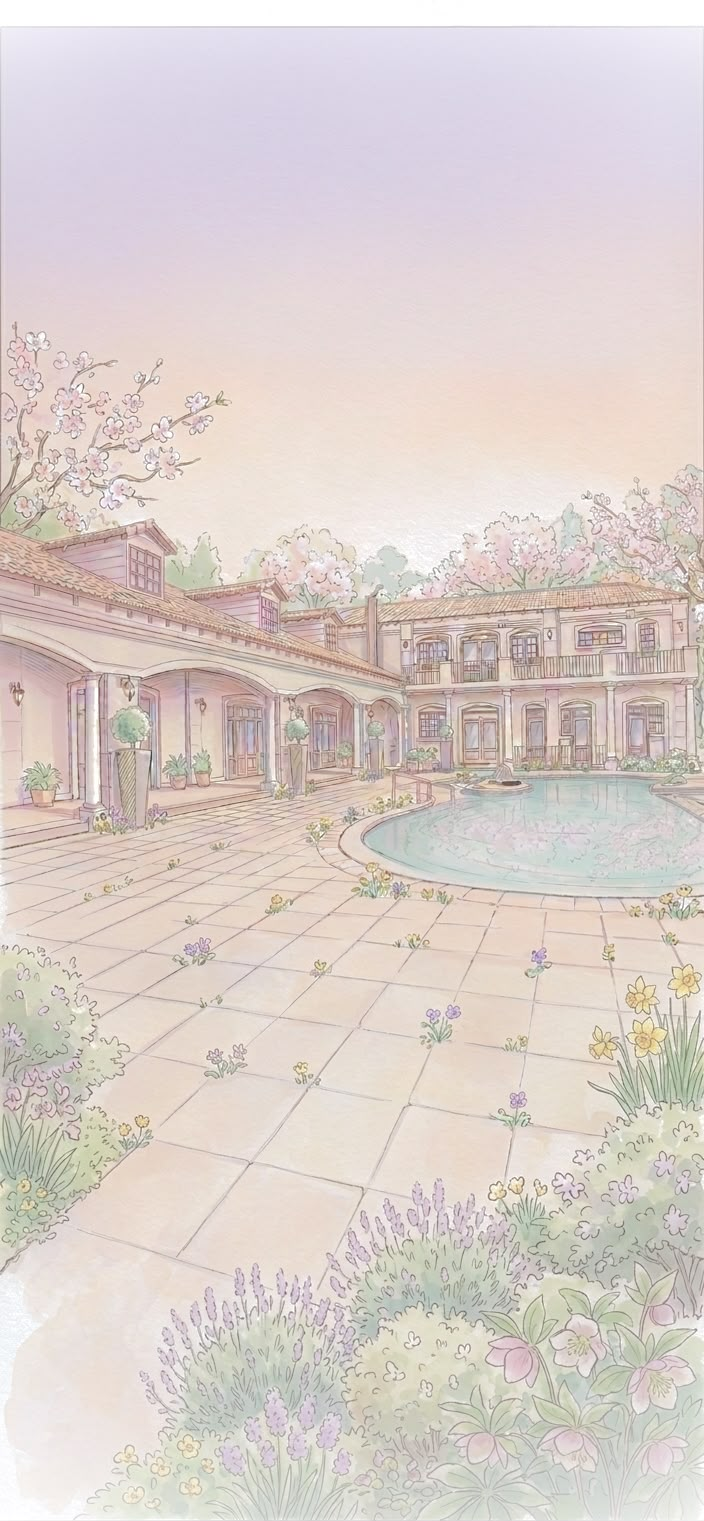
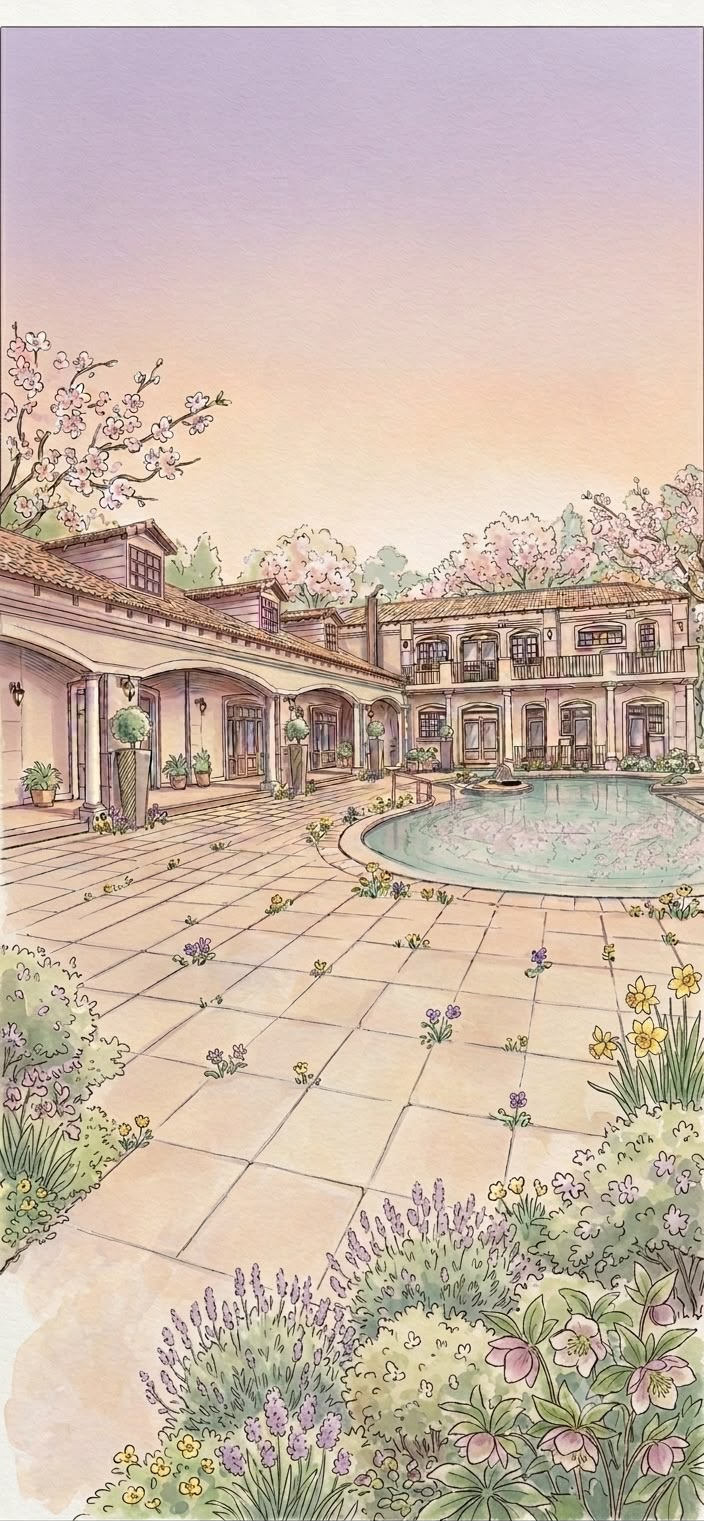
Design: Lessen background fade to 35% opacity and deepen text colors for maximum contrast and popping colors on invitation card

diff --git a/src/components/invitation-card.tsx b/src/components/invitation-card.tsx
@@ -88,7 +88,7 @@ export function InvitationCard({
       id={printId ? 'invitation-print-card' : undefined}
       className={`relative mx-auto aspect-[5/7] ${widthClass} [container-type:inline-size] overflow-hidden rounded-[2.5cqw] shadow-[0_30px_90px_rgba(0,0,0,0.25)]`}
       style={{
-        backgroundImage: 'linear-gradient(to bottom, rgba(253, 251, 245, 0.78), rgba(253, 251, 245, 0.78)), url("/villa-courtyard.jpg")',
+        backgroundImage: 'linear-gradient(to bottom, rgba(253, 251, 245, 0.35), rgba(253, 251, 245, 0.35)), url("/villa-courtyard.jpg")',
         backgroundSize: 'cover',
         backgroundPosition: 'center',
       }}
@@ -99,7 +99,7 @@ export function InvitationCard({
         initial={{ x: '-130%' }}
         animate={{ x: '130%' }}
         transition={{ delay: 1.6, duration: 2.4, ease: 'easeInOut' }}
-        style={{ background: 'linear-gradient(105deg, transparent 42%, rgba(255,255,255,0.15) 50%, transparent 58%)' }}
+        style={{ background: 'linear-gradient(105deg, transparent 42%, rgba(255,255,255,0.18) 50%, transparent 58%)' }}
       />
 
       {/* Card content — vertically composed and centered with compact spacing */}
@@ -108,13 +108,13 @@ export function InvitationCard({
         {/* Arabic Calligraphy and Translation */}
         <motion.div variants={riseIn} className="flex flex-col items-center">
           <p
-            className="text-[6.8cqw] font-medium leading-none text-[#2b3a30] select-none"
+            className="text-[6.8cqw] font-bold leading-none text-[#122217] select-none"
             style={{ fontFamily: "'Amiri', serif" }}
           >
             بِسْمِ اللهِ الرَّحْمٰنِ الرَّحِيْمِ
           </p>
           <p
-            className="mt-[1cqw] text-[2.2cqw] font-semibold uppercase tracking-[0.14em] text-[#555555]"
+            className="mt-[1cqw] text-[2.2cqw] font-bold uppercase tracking-[0.14em] text-[#2e3b32]"
             style={{ fontFamily: "'Playfair Display', serif" }}
           >
             In The Name of Allah, The Most Gracious, The Most Merciful
@@ -122,16 +122,16 @@ export function InvitationCard({
         </motion.div>
 
         {/* Divider */}
-        <motion.div variants={drawLine} className="h-px bg-gradient-to-r from-transparent via-[#2b3a30]/20 to-transparent w-[80cqw]" />
+        <motion.div variants={drawLine} className="h-px bg-gradient-to-r from-transparent via-[#122217]/28 to-transparent w-[80cqw]" />
 
         {/* Families Invitation Header */}
         <motion.p
           variants={riseIn}
-          className="text-[2.3cqw] leading-[1.6] text-[#2b3a30] max-w-[80cqw] font-medium"
+          className="text-[2.3cqw] leading-[1.6] text-[#122217] max-w-[80cqw] font-bold"
           style={{ fontFamily: "'Playfair Display', serif" }}
         >
           The Shade and Parker Families Request The Honour Of Your Presence At <br />
-          <span className="font-bold">The Nikaah Ceremony and Reception</span> of:
+          <span className="font-extrabold text-[#113a1c]">The Nikaah Ceremony and Reception</span> of:
         </motion.p>
 
         {/* Groom & Bride Section */}
@@ -139,13 +139,13 @@ export function InvitationCard({
           {/* Groom: Abduraziq Parker */}
           <div className="flex flex-col items-center">
             <h1
-              className="text-[7.2cqw] leading-none text-[#4a604f] font-medium italic"
+              className="text-[7.2cqw] leading-none text-[#113a1c] font-bold italic"
               style={{ fontFamily: "'Great Vibes', cursive" }}
             >
               Abduraziq Parker
             </h1>
             <p
-              className="mt-[0.6cqw] text-[2.3cqw] text-[#555555]"
+              className="mt-[0.6cqw] text-[2.3cqw] font-semibold text-[#2e3b32]"
               style={{ fontFamily: "'Playfair Display', serif" }}
             >
               S/o: Abdussataar and Shanaaz Parker
@@ -154,7 +154,7 @@ export function InvitationCard({
 
           {/* Script Ampersand */}
           <span
-            className="my-[0.3cqw] text-[4.8cqw] text-[#4a604f]"
+            className="my-[0.3cqw] text-[4.8cqw] text-[#113a1c] font-bold"
             style={{ fontFamily: "'Great Vibes', cursive" }}
           >
             &amp;
@@ -163,13 +163,13 @@ export function InvitationCard({
           {/* Bride: Razia Shade */}
           <div className="flex flex-col items-center">
             <h1
-              className="text-[7.2cqw] leading-none text-[#4a604f] font-medium italic"
+              className="text-[7.2cqw] leading-none text-[#113a1c] font-bold italic"
               style={{ fontFamily: "'Great Vibes', cursive" }}
             >
               Razia Shade
             </h1>
             <p
-              className="mt-[0.6cqw] text-[2.3cqw] text-[#555555]"
+              className="mt-[0.6cqw] text-[2.3cqw] font-semibold text-[#2e3b32]"
               style={{ fontFamily: "'Playfair Display', serif" }}
             >
               D/o: Sabri and Samalika Shade
@@ -180,32 +180,32 @@ export function InvitationCard({
         {/* Dual Details Grid (Nikaah & Reception) */}
         <motion.div
           variants={riseIn}
-          className="w-full grid grid-cols-2 gap-[3.5cqw] border-t border-b border-[#2b3a30]/15 py-[1.8cqw]"
+          className="w-full grid grid-cols-2 gap-[3.5cqw] border-t border-b border-[#122217]/28 py-[1.8cqw]"
         >
           {/* Nikaah Column */}
-          <div className="flex flex-col items-center text-center space-y-[1cqw] border-r border-[#2b3a30]/15 pr-[1.5cqw]">
+          <div className="flex flex-col items-center text-center space-y-[1cqw] border-r border-[#122217]/28 pr-[1.5cqw]">
             <h3
-              className="text-[2.6cqw] font-bold tracking-[0.15em] text-[#2b3a30]"
+              className="text-[2.6cqw] font-extrabold tracking-[0.15em] text-[#122217]"
               style={{ fontFamily: "'Cinzel', serif" }}
             >
               NIKAAH
             </h3>
-            <div className="h-px bg-[#2b3a30]/15 w-[10cqw]" />
+            <div className="h-px bg-[#122217]/28 w-[10cqw]" />
             <p
-              className="text-[2.2cqw] text-[#333333]"
+              className="text-[2.2cqw] font-bold text-[#122217]"
               style={{ fontFamily: "'Playfair Display', serif" }}
             >
               6 September 2026
             </p>
             <p
-              className="text-[2.2cqw] font-semibold text-[#333333]"
+              className="text-[2.2cqw] font-extrabold text-[#122217]"
               style={{ fontFamily: "'Playfair Display', serif" }}
             >
               10h00
             </p>
-            <div className="h-px bg-[#2b3a30]/15 w-[10cqw]" />
+            <div className="h-px bg-[#122217]/28 w-[10cqw]" />
             <p
-              className="text-[2cqw] text-[#555555] italic leading-snug"
+              className="text-[2cqw] text-[#2e3b32] font-semibold italic leading-snug"
               style={{ fontFamily: "'Playfair Display', serif" }}
             >
               Masjidul Quds Mosque<br />
@@ -216,27 +216,27 @@ export function InvitationCard({
           {/* Reception Column */}
           <div className="flex flex-col items-center text-center space-y-[1cqw] pl-[1.5cqw]">
             <h3
-              className="text-[2.6cqw] font-bold tracking-[0.15em] text-[#2b3a30]"
+              className="text-[2.6cqw] font-extrabold tracking-[0.15em] text-[#122217]"
               style={{ fontFamily: "'Cinzel', serif" }}
             >
               RECEPTION
             </h3>
-            <div className="h-px bg-[#2b3a30]/15 w-[10cqw]" />
+            <div className="h-px bg-[#122217]/28 w-[10cqw]" />
             <p
-              className="text-[2.2cqw] text-[#333333]"
+              className="text-[2.2cqw] font-bold text-[#122217]"
               style={{ fontFamily: "'Playfair Display', serif" }}
             >
               6 September 2026
             </p>
             <p
-              className="text-[2.2cqw] font-semibold text-[#333333]"
+              className="text-[2.2cqw] font-extrabold text-[#122217]"
               style={{ fontFamily: "'Playfair Display', serif" }}
             >
               5:00 PM
             </p>
-            <div className="h-px bg-[#2b3a30]/15 w-[10cqw]" />
+            <div className="h-px bg-[#122217]/28 w-[10cqw]" />
             <p
-              className="text-[2cqw] text-[#555555] italic leading-snug"
+              className="text-[2cqw] text-[#2e3b32] font-semibold italic leading-snug"
               style={{ fontFamily: "'Playfair Display', serif" }}
             >
               Tuscany Hall, Rylands<br />
@@ -248,20 +248,20 @@ export function InvitationCard({
         {/* Islamic Date & Quranic Verse */}
         <motion.div variants={riseIn} className="flex flex-col items-center gap-[0.8cqw]">
           <p
-            className="text-[2.4cqw] font-bold tracking-[0.08em] text-[#2b3a30]"
+            className="text-[2.4cqw] font-extrabold tracking-[0.08em] text-[#122217]"
             style={{ fontFamily: "'Cinzel', serif" }}
           >
             24 RABĪ&apos; AL-AWWAL 1448
           </p>
           <div className="flex flex-col items-center">
             <p
-              className="text-[2.4cqw] italic text-[#4a604f] font-medium"
+              className="text-[2.4cqw] italic text-[#113a1c] font-bold"
               style={{ fontFamily: "'Playfair Display', serif" }}
             >
               &ldquo;And We created you in pairs&rdquo;
             </p>
             <p
-              className="text-[2cqw] text-[#777777] mt-[0.2cqw]"
+              className="text-[2cqw] text-[#455249] font-medium mt-[0.2cqw]"
               style={{ fontFamily: "'Playfair Display', serif" }}
             >
               (Surah 78, verse 8)
@@ -276,13 +276,13 @@ export function InvitationCard({
             className="flex flex-col items-center"
           >
             <p
-              className="text-[2.4cqw] leading-none text-[#4a604f] italic"
+              className="text-[2.4cqw] leading-none text-[#113a1c] font-bold italic"
               style={{ fontFamily: "'Great Vibes', cursive" }}
             >
               Exclusively invited
             </p>
             <p
-              className="mt-[0.3cqw] text-[3.6cqw] font-bold text-[#2b3a30] tracking-wide uppercase"
+              className="mt-[0.3cqw] text-[3.6cqw] font-extrabold text-[#122217] tracking-wide uppercase"
               style={{ fontFamily: "'Playfair Display', serif" }}
             >
               {guestName}
@@ -293,12 +293,12 @@ export function InvitationCard({
         {/* RSVP Section */}
         <motion.div variants={riseIn} className="flex flex-col items-center gap-[0.5cqw] w-full">
           <p
-            className="text-[2.4cqw] font-bold tracking-[0.08em] text-[#2b3a30]"
+            className="text-[2.4cqw] font-extrabold tracking-[0.08em] text-[#122217]"
             style={{ fontFamily: "'Cinzel', serif" }}
           >
             Kindly RSVP by 14 August 2026
           </p>
-          <div className="flex justify-center gap-[3.5cqw] text-[2.1cqw] text-[#444444]" style={{ fontFamily: "'Playfair Display', serif" }}>
+          <div className="flex justify-center gap-[3.5cqw] text-[2.1cqw] text-[#2e3b32] font-bold" style={{ fontFamily: "'Playfair Display', serif" }}>
             <span>Shanaaz Parker: 0718665122</span>
             <span>Ayaaz Parker: 0718665123</span>
           </div>